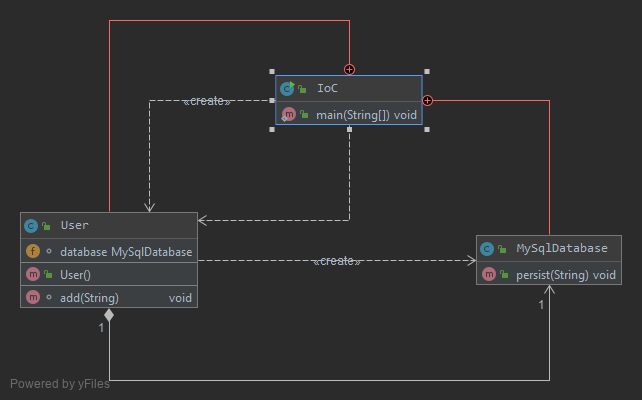
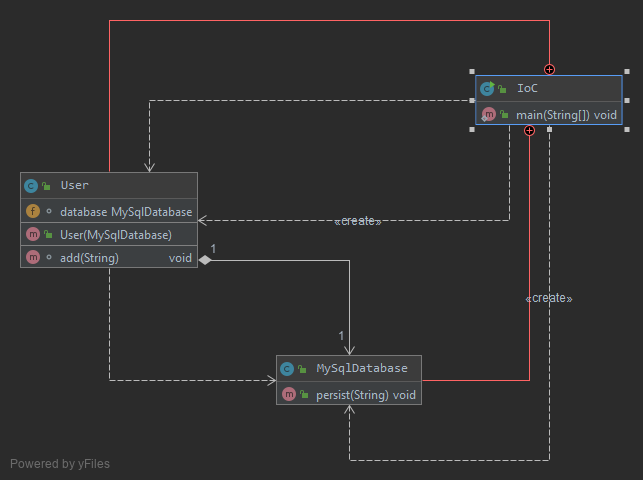
Inversion Of Control, Instance of Database can now be mocked for test

diff --git a/src/com/bext/IoC.java b/src/com/bext/IoC.java
@@ -4,15 +4,15 @@ public class IoC {
 
     public static void main(String[] args) {
         IoC container = new IoC();
-        User user = container.new User();
+        User user = container.new User( container.new MySqlDatabase());
         user.add( "Info to persist");
     }
 
     public class User {
         MySqlDatabase database;
 
-        public User() {
-            this.database = new MySqlDatabase();
+        public User( MySqlDatabase database) {
+            this.database = database;
         }
 
         void add( String data) {
